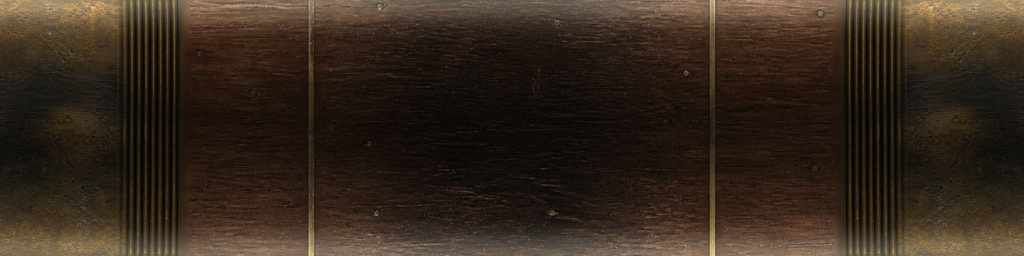
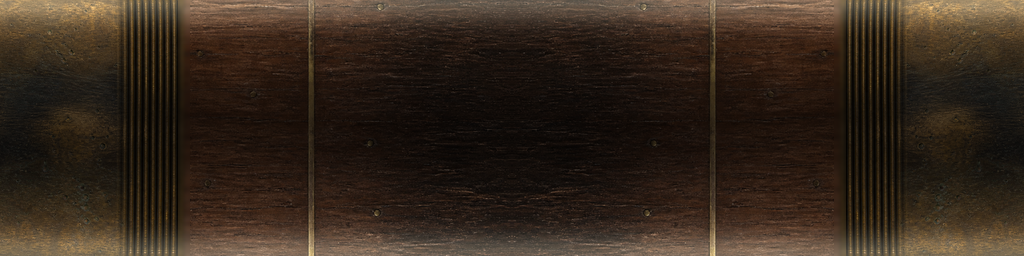
feat(core): the rod keeps its detail density at any length
The bar has always changed length live — GrabbableModal.SyncBar writes it from the
measured ink of the window, on any frame. The requirement is that it keep doing
that "und trotzdem noch so immersiv und voller Details".

The first design did not meet it. It mapped the shaft band ONCE and scaled the
mesh along its axis, so a long bar got long smeared scratches and a short one got
the whole ornament squeezed into a thumb's width. The mapping was the invariant
and the density was the casualty; it has to be the other way round.

THE SHAFT NOW REPEATS ITS BAND length/TileLength times instead of stretching it.
The count is FRACTIONAL on purpose: rounding it to a whole number would keep the
pattern aligned to both caps, but the density would then jump by 2x whenever a
window's ink crossed a rounding boundary. A fractional count holds the density
exactly constant at every length, and the partial repeat ends where the shaft
meets a cap's shoulder — a place the geometry already changes, so a break there
reads as a joint rather than a seam.

At every INTERNAL wrap the ring is emitted TWICE at the same x, once closing the
band and once reopening it, because one ring cannot carry two values of u and
interpolating between them would smear the whole band backwards across one quad.

THE BAND IS MIRROR-SYMMETRIC so those wraps are continuous. A unique unwrap's two
edges do not match; [A | mirror(A)] makes them identical by construction. It costs
[…]

diff --git a/src/GloomhavenVR/Core/GrabBar.cs b/src/GloomhavenVR/Core/GrabBar.cs
@@ -220,7 +220,49 @@ namespace GloomhavenVR.Core
         /// <summary>Where the bead band starts, in nominal radii from the dome's tip.</summary>
         private const float BeadBandStart = 1.44f;
 
-        private static readonly Dictionary<int, Mesh> _shaftCache = new();
+        /// <summary>
+        /// WORLD LENGTH one repeat of the shaft band covers, in metres.
+        ///
+        /// <para><b>THIS IS WHAT KEEPS A STRETCHED BAR DETAILED.</b> The window bar's length is
+        /// live — <c>SyncBar</c> writes it from the measured ink of the window, and the range is
+        /// wide. The first cut mapped the shaft band ONCE and scaled the mesh along its axis, so a
+        /// long bar got long smeared scratches and a short one got the whole ornament squeezed into
+        /// a thumb's width. The user's requirement is that the bar keep changing length "und
+        /// trotzdem noch so immersiv und voller Details" — which means the DENSITY has to be the
+        /// invariant, not the mapping.</para>
+        ///
+        /// <para>So the shaft repeats its band <c>length / TileLength</c> times. The count is
+        /// FRACTIONAL on purpose: forcing it to a whole number would keep the pattern aligned to
+        /// both caps but make the density jump by 2x whenever a window's ink crossed a rounding
+        /// boundary. A fractional count holds the density exactly constant at every length, and the
+        /// partial repeat ends where the shaft meets a cap's shoulder — a place the geometry
+        /// already changes, so a break in the pattern there reads as a joint rather than a seam.</para>
+        ///
+        /// <para>0.60 m rather than the board shaft's own 0.30 m because the band is built
+        /// MIRROR-SYMMETRIC so that its wraps are seamless (see scripts/grabbar-strips.py), which
+        /// puts the ornament in one repeat TWICE. Halving the rate puts it back at the spacing that
+        /// was approved: the board bar comes out at ~0.47 of a repeat, showing the ornament about
+        /// once, exactly as it did when it was mapped once and stretched.</para>
+        /// </summary>
+        internal const float TileLength = 0.60f;
+
+        /// <summary>Bounds on the repeat count. The floor is deliberately LOW — a mirror-seamless
+        /// band makes any fraction legal, and a higher floor would force short bars to a denser
+        /// pattern than long ones, which is the very thing this mechanism exists to prevent. The
+        /// ceiling bounds the vertex count and the mesh cache for a bar somebody has stretched
+        /// absurdly.</summary>
+        internal const float MinTiles = 0.10f;
+
+        /// <summary>See <see cref="MinTiles"/>.</summary>
+        internal const float MaxTiles = 6f;
+
+        /// <summary>Quantum the repeat count is snapped to before a mesh is built, so the cache
+        /// holds a handful of meshes rather than one per distinct window width. The density error
+        /// this introduces is at most this over the count itself — 5 % at one repeat, less above —
+        /// which is far below anything the eye finds in wood grain.</summary>
+        private const float TileQuantum = 0.05f;
+
+        private static readonly Dictionary<long, Mesh> _shaftCache = new();
         private static readonly Dictionary<int, Mesh> _capCache = new();
 
         /// <summary>
@@ -236,9 +278,32 @@ namespace GloomhavenVR.Core
         /// these bars are drawn at, whereas tiling a sub-band of an atlas needs either a second material
         /// or a second texture — and a second material would break the one-write highlight above.</para>
         /// </summary>
-        internal static Mesh Shaft(float radius)
+        /// <summary>
+        /// Snap a raw repeat count to the value a mesh is actually built for. Public so the caller
+        /// can ask "would this change the mesh?" without building anything.
+        /// </summary>
+        internal static float QuantiseTiles(float tiles) =>
+            Mathf.Round(Mathf.Clamp(tiles, MinTiles, MaxTiles) / TileQuantum) * TileQuantum;
+
+        /// <summary>
+        /// A UNIT-LENGTH shaft: a tube of the given radius running along +X from −0.5 to +0.5,
+        /// carrying the end taper, and repeating the texture's shaft band
+        /// <paramref name="tiles"/> times along its length. Scale it along X to the length you
+        /// want — that is the whole reason it is unit length and the reason the caps are separate.
+        ///
+        /// <para>UV: <c>u</c> sweeps the band (<see cref="ShaftU0"/> … <see cref="ShaftU1"/>) once
+        /// per repeat and <c>v</c> runs around the circumference. At every INTERNAL wrap the ring
+        /// is EMITTED TWICE at the same x — once ending the band at <see cref="ShaftU1"/>, once
+        /// starting it again at <see cref="ShaftU0"/> — because a single ring cannot hold two
+        /// values of u, and interpolating between them would smear the whole band backwards across
+        /// one quad. The compositor makes the band mirror-symmetric so that those wraps are
+        /// continuous rather than a visible line (see scripts/grabbar-strips.py).</para>
+        /// </summary>
+        internal static Mesh Shaft(float radius, float tiles)
         {
-            int key = Mathf.RoundToInt(radius * 1e5f);
+            tiles = QuantiseTiles(tiles);
+            long key = (long)Mathf.RoundToInt(radius * 1e5f) * 100000L
+                       + Mathf.RoundToInt(tiles * 1000f);
             if (_shaftCache.TryGetValue(key, out Mesh cached) && cached != null)
                 return cached;
 
@@ -247,18 +312,33 @@ namespace GloomhavenVR.Core
             var uvs = new List<Vector2>();
             var tris = new List<int>();
 
+            // Enough rings that every repeat still curves smoothly, and that a wrap lands close to
+            // a ring rather than far from one.
+            int rings = Mathf.Max(ShaftSegments, Mathf.CeilToInt(ShaftSegments * tiles));
+
             var profile = new List<Vector3>();   // (x, r, u)
-            for (int a = 0; a <= ShaftSegments; a++)
+            for (int a = 0; a <= rings; a++)
             {
-                float t = (float)a / ShaftSegments;
+                float t = (float)a / rings;
                 // Distance from the NEARER end, normalised against the taper span, then
                 // smoothstepped so the shoulder is a curve and not a crease.
                 float edge = Mathf.Clamp01(Mathf.Min(t, 1f - t) / TaperSpan);
                 float ease = edge * edge * (3f - 2f * edge);
-                profile.Add(new Vector3(
-                    t - 0.5f,
-                    radius * (ShaftEndRadius + (1f - ShaftEndRadius) * ease),
-                    Mathf.Lerp(ShaftU0, ShaftU1, t)));
+                float r = radius * (ShaftEndRadius + (1f - ShaftEndRadius) * ease);
+
+                float sweep = t * tiles;                 // how many band-widths in we are
+                float frac = sweep - Mathf.Floor(sweep);
+                bool onWrap = a > 0 && a < rings && frac < 1e-4f;
+                if (onWrap)
+                {
+                    // Close the previous repeat, then open the next one at the same x.
+                    profile.Add(new Vector3(t - 0.5f, r, ShaftU1));
+                    profile.Add(new Vector3(t - 0.5f, r, ShaftU0));
+                }
+                else
+                {
+                    profile.Add(new Vector3(t - 0.5f, r, Mathf.Lerp(ShaftU0, ShaftU1, frac)));
+                }
             }
             Lathe(profile, verts, norms, uvs, tris);
 

diff --git a/src/GloomhavenVR/Core/GrabBarVisual.cs b/src/GloomhavenVR/Core/GrabBarVisual.cs
@@ -65,6 +65,13 @@ internal sealed class GrabBarVisual
     private readonly Transform _capA;
     private readonly Transform _capB;
     private readonly float _radius;
+
+    /// <summary>The repeat count the shaft's current mesh was built for; −1 until the first
+    /// <see cref="SetLength"/>. Compared against the quantised want, so a bar whose length wobbles
+    /// inside one quantum never touches its MeshFilter.</summary>
+    private float _tiles = -1f;
+
+    private MeshFilter? _shaftFilter;
     private readonly List<MeshRenderer> _renderers = new(3);
 
     /// <summary>The bar's own root. Call sites parent it and position it; they must NOT scale it
@@ -124,7 +131,7 @@ internal sealed class GrabBarVisual
         GrabBarTexture.Maps maps = GrabBarTexture.Get(style);
         Material material = BuildMaterial(maps, overlay);
 
-        Mesh shaftMesh = GrabBarMesh.Shaft(radius);
+        Mesh shaftMesh = GrabBarMesh.Shaft(radius, 1f);
         Mesh capMesh = GrabBarMesh.Cap(radius);
 
         var bar = new GrabBarVisual(
@@ -134,6 +141,7 @@ internal sealed class GrabBarVisual
             Piece(root, "CapB", capMesh, material),
             radius, material, maps.Albedo != null);
 
+        bar._shaftFilter = bar._shaft.GetComponent<MeshFilter>();
         bar._renderers.Add(bar._shaft.GetComponent<MeshRenderer>());
         bar._renderers.Add(bar._capA.GetComponent<MeshRenderer>());
         bar._renderers.Add(bar._capB.GetComponent<MeshRenderer>());
@@ -227,18 +235,35 @@ internal sealed class GrabBarVisual
     /// <summary>
     /// Lay the rod out for a total end-to-end length, in the root's local metres.
     ///
-    /// <para>Cheap enough for a per-frame caller — <c>GrabbableModal.SyncBar</c> is one — because it
-    /// is three transform writes and no allocation. The shaft is scaled ONLY along X, which a
-    /// circular cross-section is indifferent to; the caps are moved, never scaled.</para>
+    /// <para>Cheap enough for a per-frame caller — <c>GrabbableModal.SyncBar</c> is one. In the
+    /// common case it is three transform writes and no allocation: the shaft is scaled ONLY along
+    /// X, which a circular cross-section is indifferent to, and the caps are moved, never
+    /// scaled.</para>
     ///
-    /// <para>A length below two caps would put the caps through each other. Rather than draw a knot,
-    /// the shaft collapses to nothing and the two caps meet at the middle, which is the honest
-    /// picture of "this bar is as short as this bar gets" and is what the window's own
+    /// <para><b>AND THE TEXTURE DOES NOT STRETCH WITH IT.</b> The shaft repeats its band
+    /// <c>length / TileLength</c> times, so a bar twice as long shows twice as much pattern rather
+    /// than the same pattern pulled to twice the size. The count is quantised
+    /// (<see cref="GrabBarMesh.QuantiseTiles"/>) and the mesh only swapped when that quantised
+    /// value actually moves — a window whose ink wobbles by a millimetre re-scales a transform and
+    /// touches nothing else. The meshes are cached by count, so the swap is a dictionary hit after
+    /// the first time any bar in the process has asked for it.</para>
+    ///
+    /// <para>A length below two caps would put the caps through each other. Rather than draw a
+    /// knot, the shaft collapses to nothing and the two caps meet at the middle, which is the
+    /// honest picture of "this bar is as short as this bar gets" and is what the window's own
     /// <c>MinBarWidth</c> floor already prevents in practice.</para>
     /// </summary>
     internal void SetLength(float length)
     {
         GrabBarMesh.Pose(length, _radius, out float shaft, out Vector3 left, out Vector3 right);
+
+        float want = GrabBarMesh.QuantiseTiles(shaft / GrabBarMesh.TileLength);
+        if (_shaftFilter != null && !Mathf.Approximately(want, _tiles))
+        {
+            _shaftFilter.sharedMesh = GrabBarMesh.Shaft(_radius, want);
+            _tiles = want;
+        }
+
         _shaft.localScale = new Vector3(shaft, 1f, 1f);
         _capA.localPosition = left;
         _capB.localPosition = right;

diff --git a/unity/GloomhavenVR.Assets/Assets/Editor/PreviewGrabBar.cs b/unity/GloomhavenVR.Assets/Assets/Editor/PreviewGrabBar.cs
@@ -80,6 +80,13 @@ namespace GloomhavenVR
                 bool overlay = style == "generic";
                 Shoot(style, overlay, BoardBarLength, "long", outDir);
                 Shoot(style, overlay, ShortBarLength, "short", outDir);
+                // A LENGTH SWEEP. The window bar's length is live, and the whole point of the
+                // band repeating rather than stretching is that the DETAIL DENSITY stays put while
+                // the bar does not. That is a claim about three pictures, not one: rendered side by
+                // side, the scratches and the ornament must come out the same SIZE in all of them.
+                Shoot(style, overlay, 0.16f, "len016", outDir);
+                Shoot(style, overlay, 0.34f, "len034", outDir);
+                Shoot(style, overlay, 0.70f, "len070", outDir);
                 // A DEPTH TEST, not a beauty shot. Looking almost straight down the rod's axis,
                 // the FAR cap is entirely behind the shaft and must be completely invisible. If any
                 // part of it shows, the pieces are not depth-sorting against each other and the rod
@@ -96,7 +103,6 @@ namespace GloomhavenVR
             try
             {
                 Material mat = BuildMaterial(style, overlay);
-                Mesh shaft = GloomhavenVR.Core.GrabBarMesh.Shaft(Radius);
                 Mesh cap = GloomhavenVR.Core.GrabBarMesh.Cap(Radius);
                 // THE POSE COMES FROM THE SHARED FILE, not from a copy written here. The first
                 // version of this preview carried its own copy of the placement and it was wrong in
@@ -106,6 +112,13 @@ namespace GloomhavenVR
                 float capLen = Radius * GloomhavenVR.Core.GrabBarMesh.CapLengthInRadii;
                 GloomhavenVR.Core.GrabBarMesh.Pose(length, Radius, out float shaftLen,
                                                    out Vector3 leftPos, out Vector3 rightPos);
+
+                // The repeat count is derived the SAME way GrabBarVisual.SetLength derives it,
+                // through the same helper in the same shared file — the station has to draw the rod
+                // the game builds, not one that merely looks like it.
+                float tiles = GloomhavenVR.Core.GrabBarMesh.QuantiseTiles(
+                    shaftLen / GloomhavenVR.Core.GrabBarMesh.TileLength);
+                Mesh shaft = GloomhavenVR.Core.GrabBarMesh.Shaft(Radius, tiles);
 
                 Piece(root.transform, "Shaft", shaft, mat,
                       Vector3.zero, Quaternion.identity, new Vector3(shaftLen, 1f, 1f));
@@ -157,7 +170,12 @@ namespace GloomhavenVR
                 // horizontal half-angle instead, and leave 12 % margin.
                 float hFov = 2f * Mathf.Atan(Mathf.Tan(cam.fieldOfView * 0.5f * Mathf.Deg2Rad)
                                              * ((float)rtW / rtH));
-                float dist = (length * 1.34f * 0.5f) / Mathf.Tan(hFov * 0.5f);
+                // The sweep shots are framed on a FIXED width rather than on the rod, so a
+                // scratch that is the same size in metres comes out the same size in pixels in all
+                // three. Framing each on its own length would rescale every picture and hide
+                // exactly the thing the sweep exists to show.
+                float frame = tag.StartsWith("len") ? 0.72f : length * 1.34f;
+                float dist = (frame * 0.5f) / Mathf.Tan(hFov * 0.5f);
                 // A THREE-QUARTER HERO ANGLE, not a side elevation — the same view the design
                 // sheets were drawn at. Judging a flat side-on render against a three-quarter
                 // reference compares two different pictures and flatters neither: foreshortening

diff --git a/scripts/grabbar-strips.py b/scripts/grabbar-strips.py
@@ -317,6 +317,34 @@ def grade(img, name):
     return img
 
 
+def shaft_band(swatch_dir, name, width, height):
+    """The shaft's band, made MIRROR-SYMMETRIC so it tiles in u without a seam.
+
+    The mesh repeats this band length/TileLength times so that a stretched bar shows MORE pattern
+    instead of the same pattern pulled longer (GrabBarMesh.Shaft). Every wrap puts the band's right
+    edge against its left edge, so those two edges have to match — and a unique unwrap's edges do
+    not. Building the band as [A | mirror(A)] makes them identical by construction: the join in the
+    middle is a mirror line, and the wrap at the ends closes on the same pixels.
+
+    It costs half the unique content and buys a rod that is symmetric about the middle of each
+    repeat, which is what a turned rod looks like anyway. The grain runs ALONG u, so mirroring it
+    is close to invisible; the ornament bands come out paired, which reads as deliberate.
+    """
+    # THE HALF IS CUT OUT OF THE FINISHED BAND, not fetched at half width. Asking band() for a
+    # half-width strip changes the crop aspect, which makes it pull a differently-shaped region out
+    # of the source and scale it harder — every feature came out half size, and mirroring then
+    # doubled the count, so one repeat carried four times the ornament it should. Feature scale is
+    # the thing that must not move: crop the finished band, then mirror.
+    half = width // 2
+    left = band(swatch_dir, name, width, height).crop((0, 0, half, height))
+    out = Image.new('RGB', (width, height))
+    out.paste(left, (0, 0))
+    out.paste(left.transpose(Image.FLIP_LEFT_RIGHT), (width - half, 0))
+    if width - 2 * half:          # odd width: fill the one-pixel gap from the near side
+        out.paste(left.crop((half - 1, 0, half, height)), (half, 0))
+    return out
+
+
 def cap_band(swatch_dir, knob_sw, collar_sw, width, height, dome_frac):
     """The cap's strip: the KNOB's own worn skin, then the beaded collar.
 
@@ -496,7 +524,7 @@ def main():
         shaft_w = W - 2 * cap_px
         cap = cap_band(args.swatches, knob_sw, cap_sw, cap_px, H, dome_frac)
         img.paste(cap, (0, 0))
-        img.paste(band(args.swatches, shaft_sw, shaft_w, H), (cap_px, 0))
+        img.paste(shaft_band(args.swatches, shaft_sw, shaft_w, H), (cap_px, 0))
         # The far cap is the near cap MIRRORED, so both ends carry the same material and the wrap
         # at u=1 meets u=0 on identical pixels.
         img.paste(cap.transpose(Image.FLIP_LEFT_RIGHT), (W - cap_px, 0))
